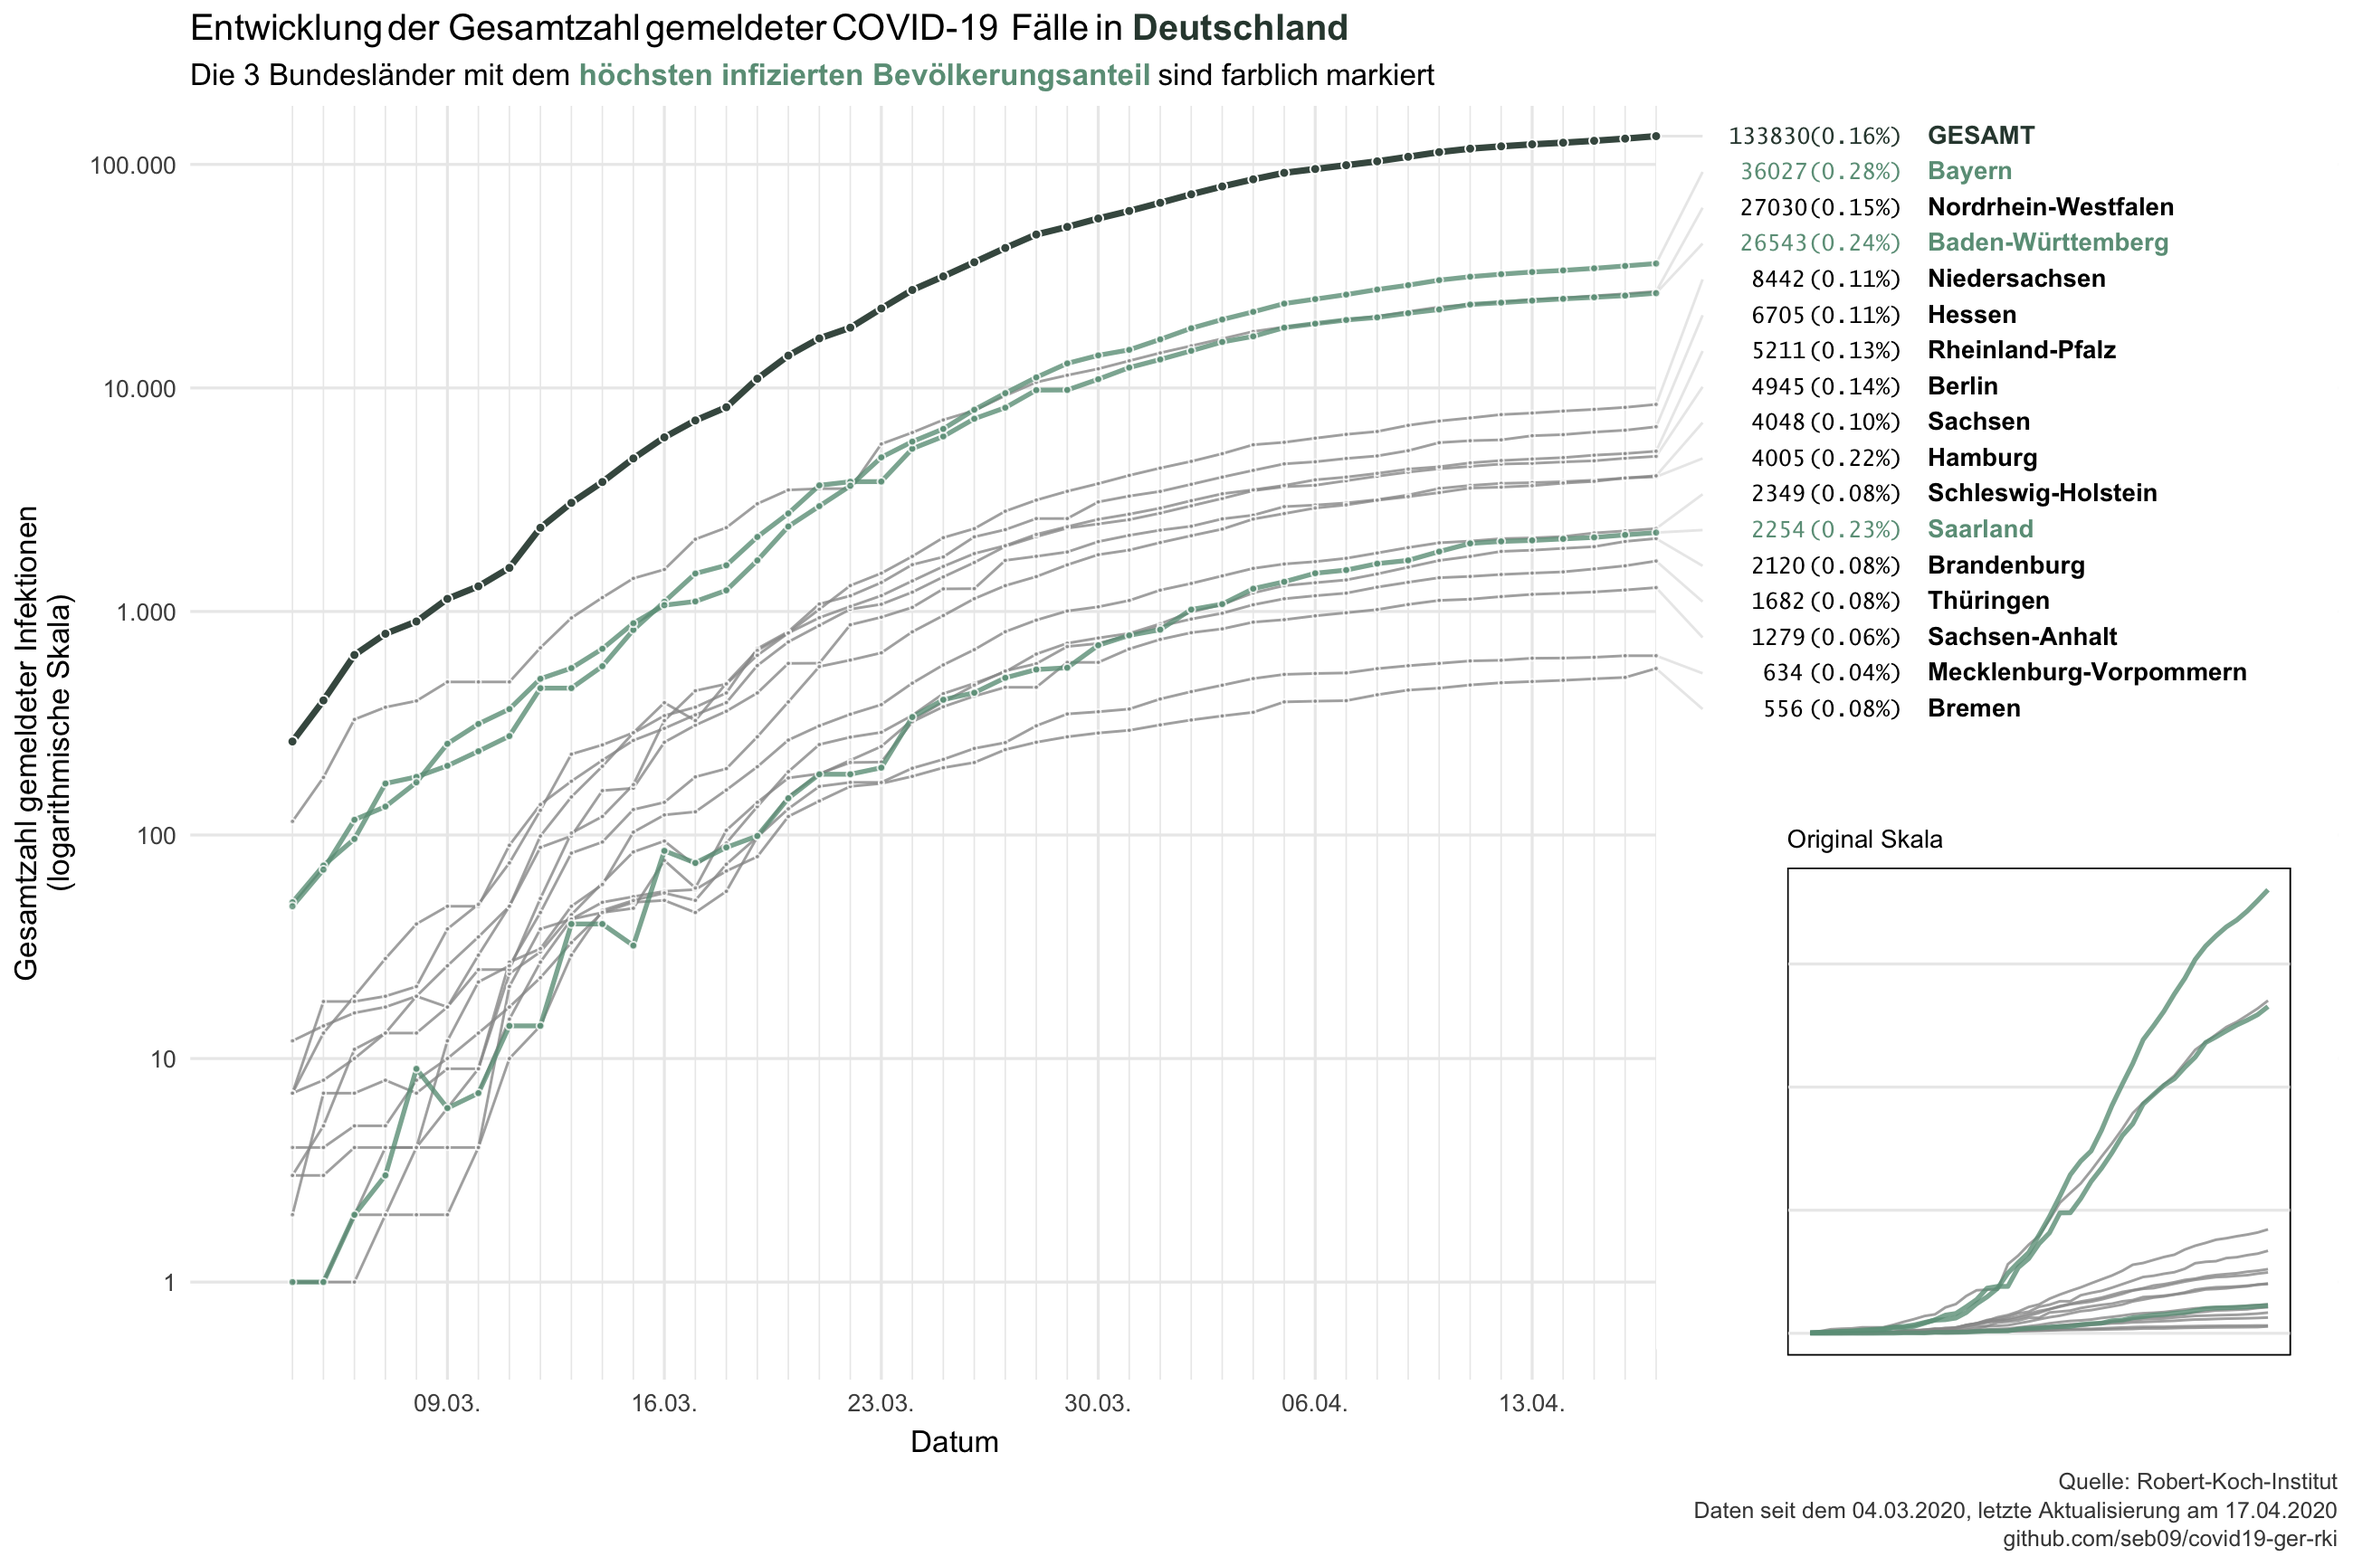
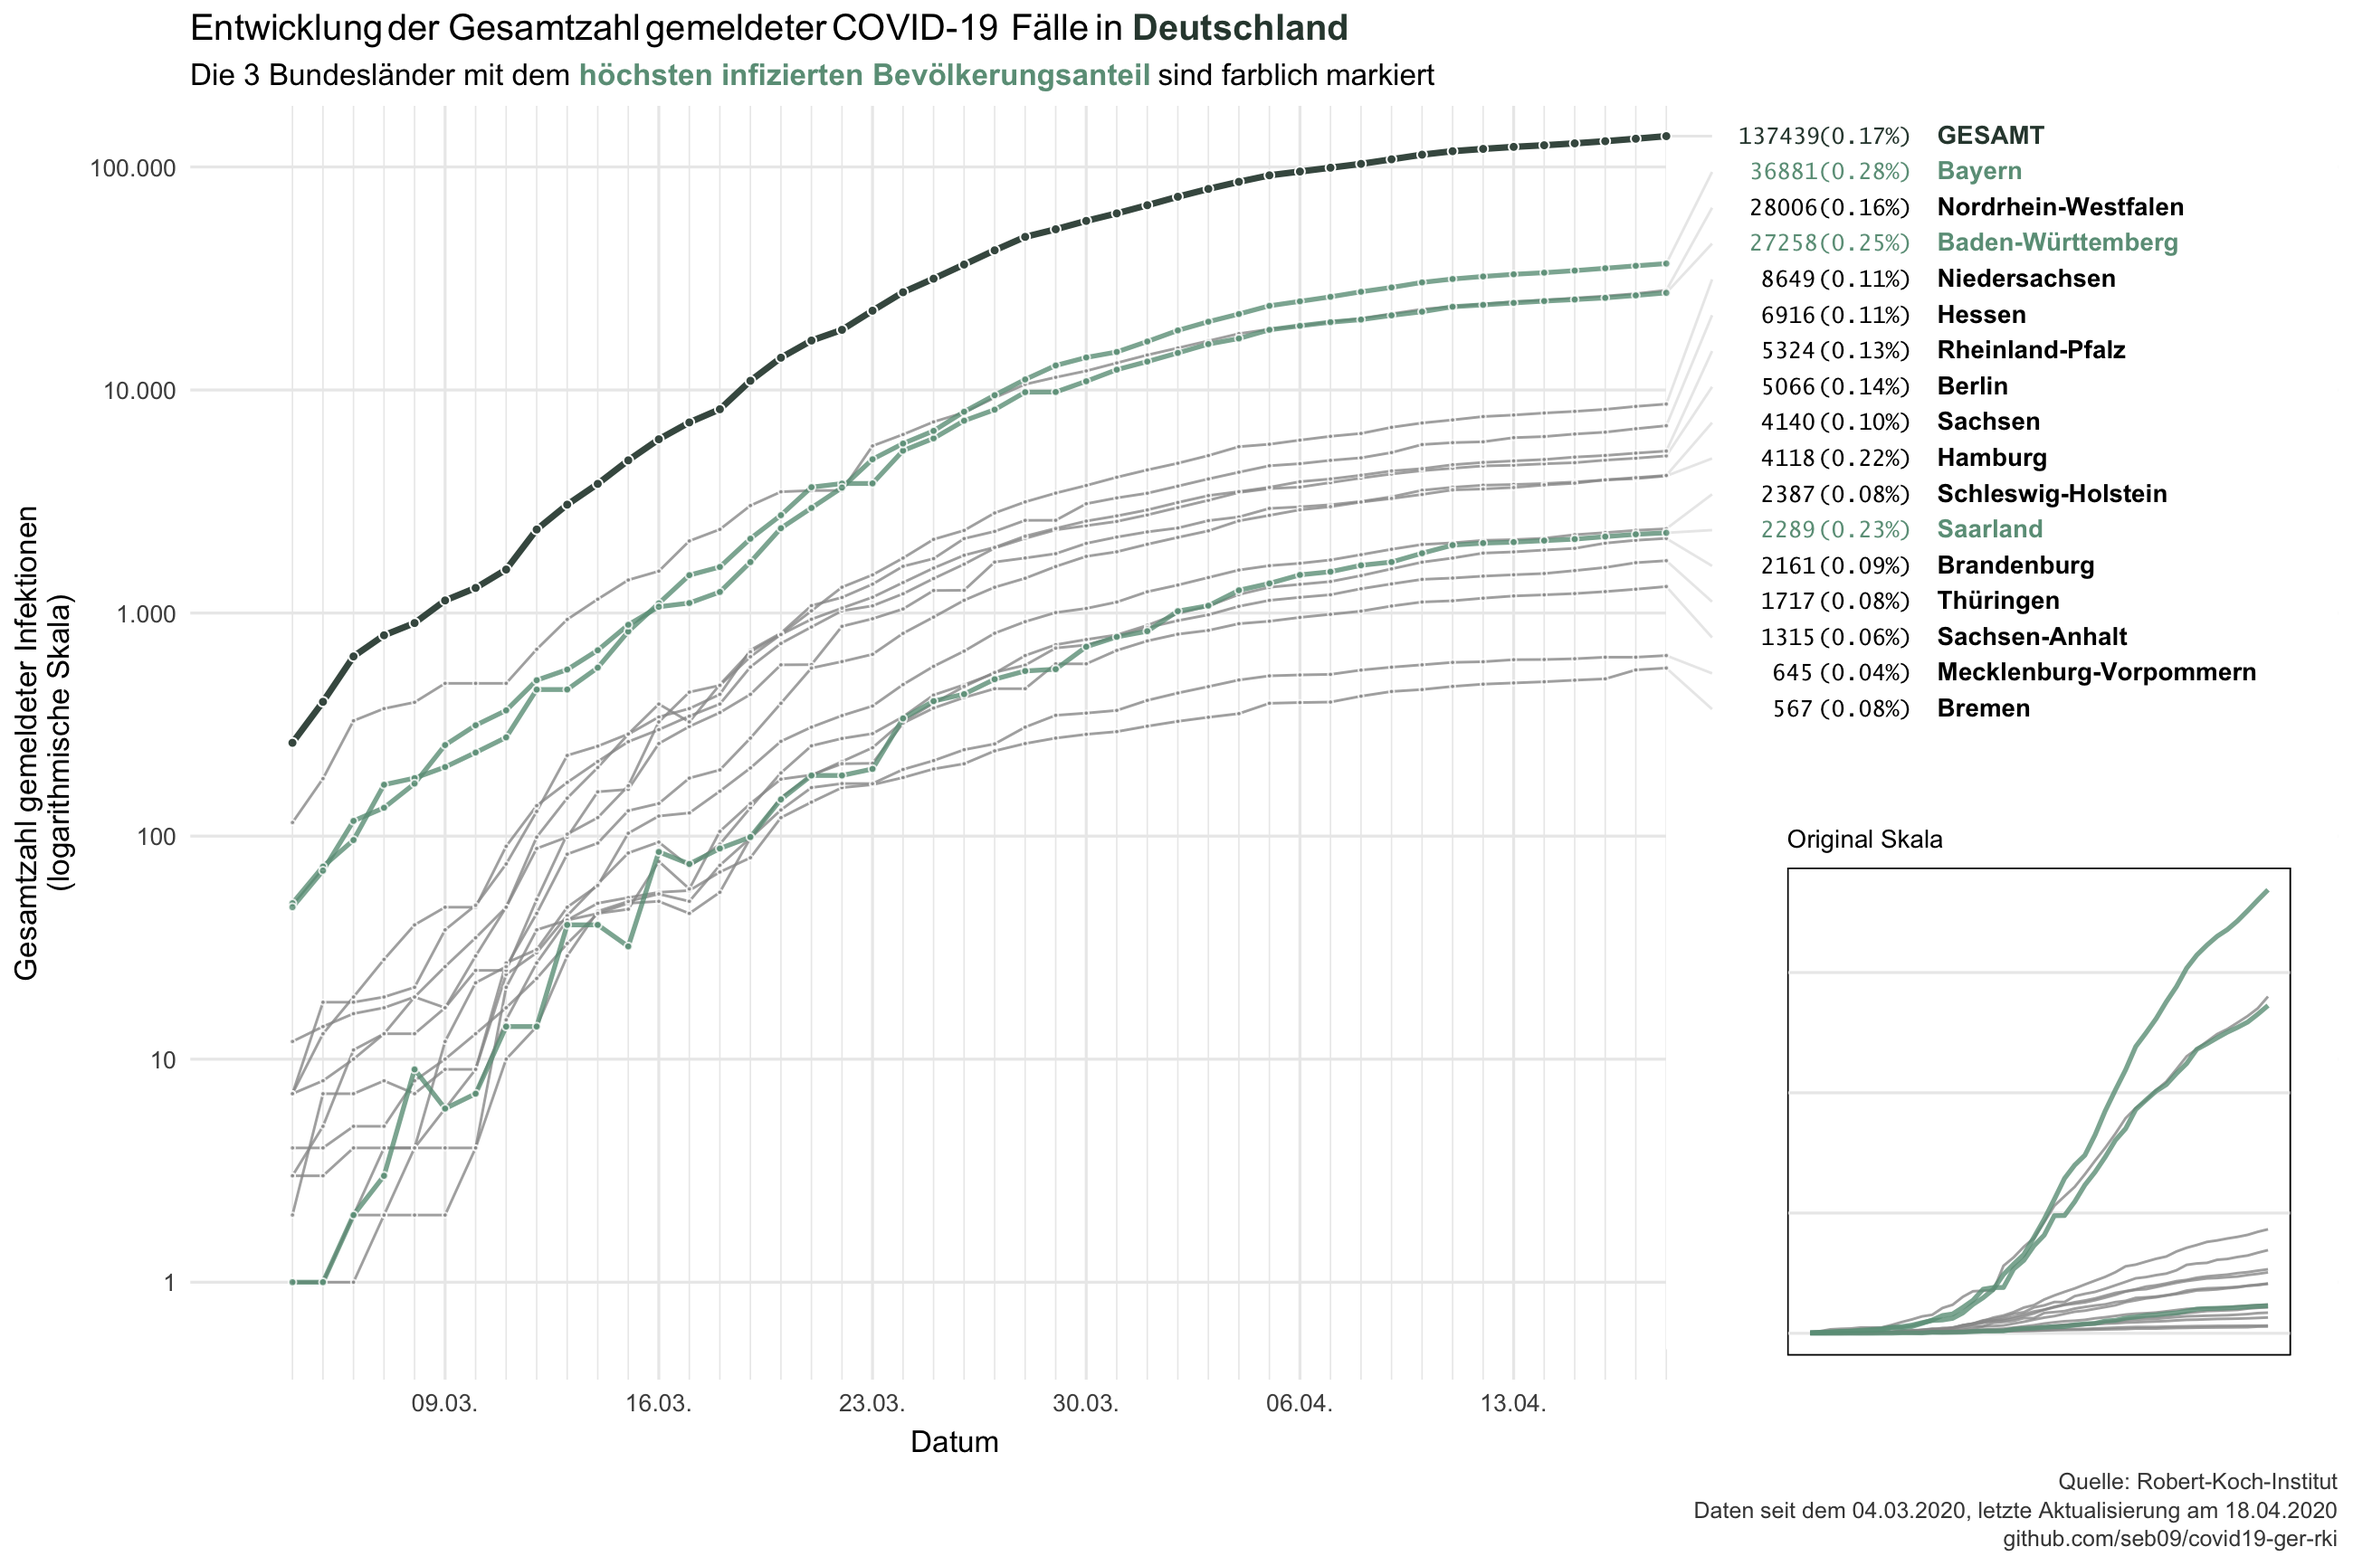
daily update 2020-04-18

diff --git a/README.md b/README.md
@@ -1,6 +1,6 @@
 Data from the Robert-Koch-Institut on COVID-19 in Germany
 ================
-Last update: 2020-04-17
+Last update: 2020-04-18
 
 This repository contains data on reported COVID-19 cases in Germany and
 its federal states that is published daily by the Robert-Koch-Institut
@@ -14,26 +14,26 @@ corona_rki %>%
   print(n = 16)
 ```
 
-    ## # A tibble: 714 x 6
+    ## # A tibble: 730 x 6
     ##    Datum      Bundesland      Fallzahl Todeszahl Fallzahl_neu Todeszahl_neu
     ##    <date>     <chr>              <dbl>     <dbl>        <dbl>         <dbl>
-    ##  1 2020-04-17 Baden-Württemb…    26543       872          662            70
-    ##  2 2020-04-17 Bayern             36027      1137          885            88
-    ##  3 2020-04-17 Berlin              4945        84           97            10
-    ##  4 2020-04-17 Brandenburg         2120        60           62             6
-    ##  5 2020-04-17 Bremen               556        22           49             1
-    ##  6 2020-04-17 Hamburg             4005        84           52             4
-    ##  7 2020-04-17 Hessen              6705       197          235            10
-    ##  8 2020-04-17 Mecklenburg-Vo…      634        13            0             0
-    ##  9 2020-04-17 Niedersachsen       8442       274          254            26
-    ## 10 2020-04-17 Nordrhein-West…    27030       726          647            63
-    ## 11 2020-04-17 Rheinland-Pfalz     5211        92          124             5
-    ## 12 2020-04-17 Saarland            2254        76           53             5
-    ## 13 2020-04-17 Sachsen             4048        95           93             1
-    ## 14 2020-04-17 Sachsen-Anhalt      1279        28           31             2
-    ## 15 2020-04-17 Schleswig-Hols…     2349        59           55             4
-    ## 16 2020-04-17 Thüringen           1682        49           81             4
-    ## # … with 698 more rows
+    ##  1 2020-04-18 Baden-Württemb…    27258       919          715            47
+    ##  2 2020-04-18 Bayern             36881      1198          854            61
+    ##  3 2020-04-18 Berlin              5066        91          121             7
+    ##  4 2020-04-18 Brandenburg         2161        62           41             2
+    ##  5 2020-04-18 Bremen               567        24           11             2
+    ##  6 2020-04-18 Hamburg             4118        90          113             6
+    ##  7 2020-04-18 Hessen              6916       212          211            15
+    ##  8 2020-04-18 Mecklenburg-Vo…      645        14           11             1
+    ##  9 2020-04-18 Niedersachsen       8649       281          207             7
+    ## 10 2020-04-18 Nordrhein-West…    28006       791          976            65
+    ## 11 2020-04-18 Rheinland-Pfalz     5324        99          113             7
+    ## 12 2020-04-18 Saarland            2289        86           35            10
+    ## 13 2020-04-18 Sachsen             4140       103           92             8
+    ## 14 2020-04-18 Sachsen-Anhalt      1315        29           36             1
+    ## 15 2020-04-18 Schleswig-Hols…     2387        61           38             2
+    ## 16 2020-04-18 Thüringen           1717        50           35             1
+    ## # … with 714 more rows
 
 Data is downloaded each day at 11am from the [website of the
 RKI](https://www.rki.de/DE/Content/InfAZ/N/Neuartiges_Coronavirus/Fallzahlen.html)
